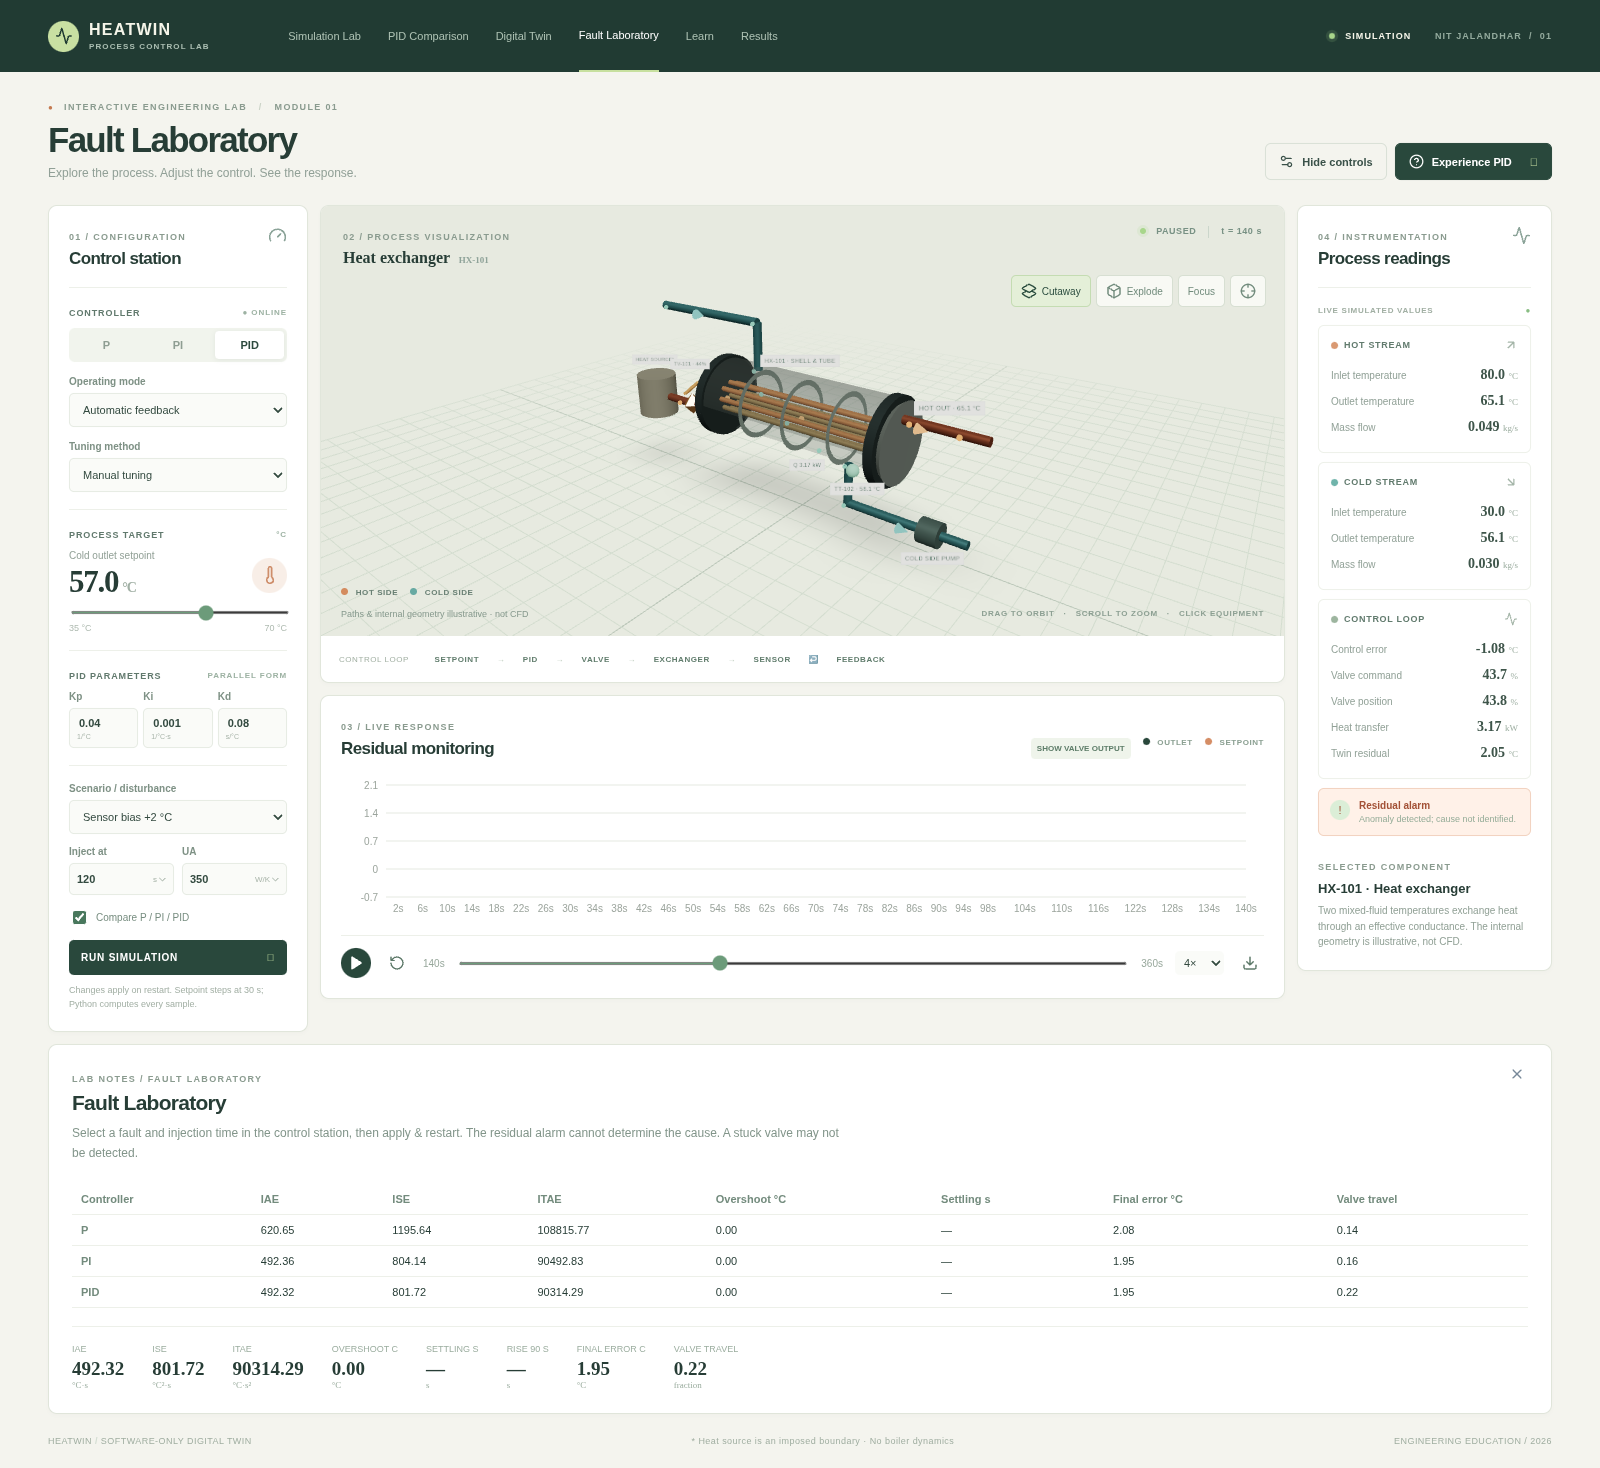
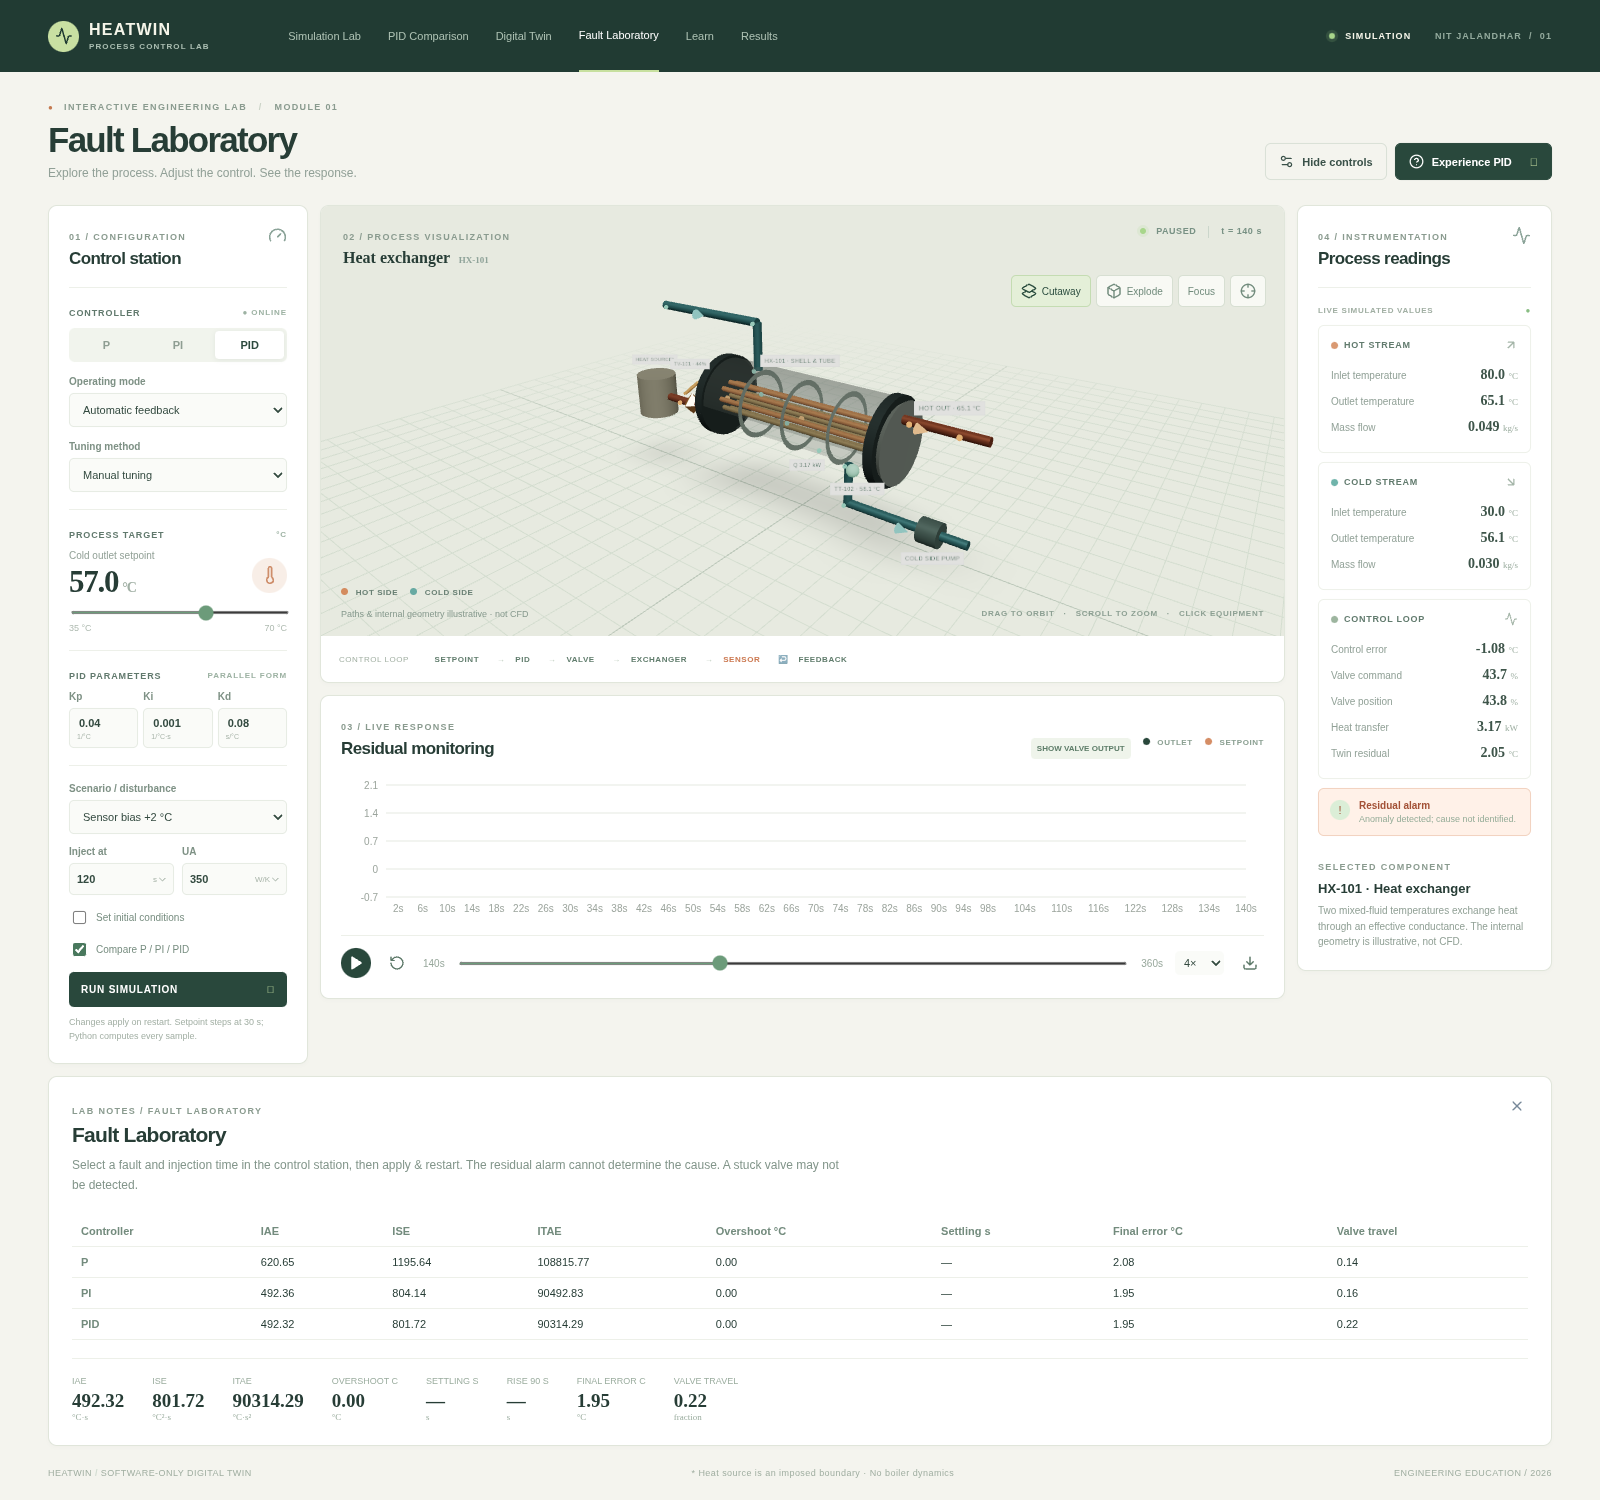
Add custom initial conditions and synchronized guidance

diff --git a/frontend/src/main.tsx b/frontend/src/main.tsx
@@ -478,6 +478,41 @@ function App() {
               <label className="check">
                 <input
                   type="checkbox"
+                  checked={config.initial_state !== null}
+                  onChange={(e) =>
+                    change(
+                      "initial_state",
+                      e.target.checked ? [55, 64, 0.4] : null,
+                    )
+                  }
+                />
+                Set initial conditions
+              </label>
+              {config.initial_state && (
+                <div className="gain-grid">
+                  {(
+                    ["Initial cold", "Initial hot", "Initial valve"] as const
+                  ).map((label, index) => (
+                    <NumberField
+                      key={label}
+                      label={label}
+                      unit={index === 2 ? "fraction" : "°C"}
+                      value={config.initial_state![index]}
+                      step={index === 2 ? 0.05 : 1}
+                      onChange={(value) => {
+                        const next: [number, number, number] = [
+                          ...config.initial_state!,
+                        ];
+                        next[index] = value;
+                        change("initial_state", next);
+                      }}
+                    />
+                  ))}
+                </div>
+              )}
+              <label className="check">
+                <input
+                  type="checkbox"
                   checked={config.compare}
                   onChange={(e) => change("compare", e.target.checked)}
                 />{" "}
@@ -596,17 +631,26 @@ function App() {
               </div>
               <div className="loop-bar">
                 <span>CONTROL LOOP</span>
-                <b>SETPOINT</b>
-                <i>→</i>
-                <b>PID</b>
-                <i>→</i>
-                <b>VALVE</b>
-                <i>→</i>
-                <b>EXCHANGER</b>
-                <i>→</i>
-                <b>SENSOR</b>
-                <i>↩</i>
-                <b>FEEDBACK</b>
+                {[
+                  "SETPOINT",
+                  "PID",
+                  "VALVE",
+                  "EXCHANGER",
+                  "SENSOR",
+                  "FEEDBACK",
+                ].map((node, index) => (
+                  <span
+                    className={
+                      Math.floor(time / 2) % 6 === index
+                        ? "signal-active"
+                        : "signal-node"
+                    }
+                    key={node}
+                  >
+                    {index > 0 && <i>{index === 5 ? "↩" : "→"}</i>}
+                    {node}
+                  </span>
+                ))}
               </div>
             </div>
             <div className="chart-panel panel">

diff --git a/frontend/src/Scene.tsx b/frontend/src/Scene.tsx
@@ -1,4 +1,4 @@
-import { Canvas, useThree } from "@react-three/fiber";
+import { Canvas, useFrame, useThree } from "@react-three/fiber";
 import {
   ContactShadows,
   OrbitControls,
@@ -91,6 +91,10 @@ function CameraActions({
 }) {
   const { camera, controls } = useThree();
   const mounted = useRef(false);
+  const destination = useRef<{
+    position: THREE.Vector3;
+    target: THREE.Vector3;
+  } | null>(null);
   useEffect(() => {
     if (!mounted.current) {
       mounted.current = true;
@@ -104,27 +108,36 @@ function CameraActions({
       sensor: [1.1, -0.65, 0],
     };
     const target = new THREE.Vector3(...positions[selected]);
-    camera.position.copy(target.clone().add(new THREE.Vector3(3, 2, 4)));
-    const orbit = controls as unknown as {
-      target: THREE.Vector3;
-      update: () => void;
-    } | null;
-    if (orbit) {
-      orbit.target.copy(target);
-      orbit.update();
-    }
+    destination.current = {
+      target,
+      position: target.clone().add(new THREE.Vector3(3, 2, 4)),
+    };
   }, [focusKey]);
   useEffect(() => {
-    camera.position.set(6, 4.3, 8);
+    destination.current = {
+      target: new THREE.Vector3(0, 0.1, 0),
+      position: new THREE.Vector3(6, 4.3, 8),
+    };
+  }, [resetKey]);
+  useFrame((_, delta) => {
+    const goal = destination.current;
+    if (!goal) return;
+    const alpha = 1 - Math.exp(-5 * delta);
+    camera.position.lerp(goal.position, alpha);
     const orbit = controls as unknown as {
       target: THREE.Vector3;
       update: () => void;
     } | null;
     if (orbit) {
-      orbit.target.set(0, 0.1, 0);
+      orbit.target.lerp(goal.target, alpha);
       orbit.update();
     }
-  }, [resetKey]);
+    if (
+      camera.position.distanceTo(goal.position) < 0.01 &&
+      (!orbit || orbit.target.distanceTo(goal.target) < 0.01)
+    )
+      destination.current = null;
+  });
   return null;
 }
 function Exchanger({

diff --git a/frontend/tests/lab.spec.ts b/frontend/tests/lab.spec.ts
@@ -84,6 +84,20 @@ test("new setpoint uses authoritative valve dynamics and reset freezes playback"
   await page.getByTitle("Focus selected equipment").click();
   await page.getByTitle("Reset camera").click();
   await page.getByRole("button", { name: "SHOW VALVE OUTPUT" }).click();
+  await page.getByLabel("Set initial conditions").check();
+  await page.getByLabel("Initial cold").fill("45");
+  await page.getByLabel("Initial hot").fill("70");
+  await page.getByLabel("Initial valve").fill("0.5");
+  const customResponse = page.waitForResponse(
+    (r) => r.url().includes("/api/run") && r.request().method() === "POST",
+  );
+  await page.getByRole("button", { name: "APPLY & RESTART" }).click();
+  const custom = await (await customResponse).json();
+  expect([
+    custom.runs.PID.samples[0].tc,
+    custom.runs.PID.samples[0].th,
+    custom.runs.PID.samples[0].valve,
+  ]).toEqual([45, 70, 0.5]);
 });
 
 test("mobile layout keeps scene and controls reachable", async ({ page }) => {

diff --git a/frontend/src/types.ts b/frontend/src/types.ts
@@ -43,6 +43,7 @@ export type Config = {
   fault: string;
   fault_time: number;
   seed: number;
+  initial_state: [number, number, number] | null;
 };
 export const defaults: Config = {
   duration: 360,
@@ -59,6 +60,7 @@ export const defaults: Config = {
   fault: "none",
   fault_time: 120,
   seed: 42,
+  initial_state: null,
 };
 export function indexAt(time: number, length: number) {
   return Math.min(Math.max(Math.floor(time), 0), Math.max(length - 1, 0));

diff --git a/frontend/src/style.css b/frontend/src/style.css
@@ -1028,3 +1028,18 @@ footer b {
     font-size: 12px;
   }
 }
+
+.loop-bar .signal-node,
+.loop-bar .signal-active {
+  margin: 0;
+  color: #617d6d;
+  font-weight: 700;
+  transition: color 0.15s;
+}
+.loop-bar .signal-active {
+  color: #cc7951;
+}
+.loop-bar .signal-node i,
+.loop-bar .signal-active i {
+  margin-right: 10px;
+}

diff --git a/heatwin/core.py b/heatwin/core.py
@@ -159,6 +159,7 @@ def simulate(
     flow_factor=1.0,
     sensor_drift=0.0,
     noise_at_fault=False,
+    initial_state=None,
 ):
     values = [
         duration,
@@ -185,11 +186,20 @@ def simulate(
     ):
         raise ValueError("invalid simulation settings")
     rng = np.random.default_rng(seed)
-    y = equilibrium(0.4, p)
+    y = (
+        equilibrium(0.4, p)
+        if initial_state is None
+        else np.asarray(initial_state, dtype=float).copy()
+    )
+    if y.shape != (3,) or not np.all(np.isfinite(y)) or not 0 <= y[2] <= 1:
+        raise ValueError(
+            "initial state requires two finite temperatures and a valve position in [0, 1]"
+        )
     initial = y[0]
-    controller = PID(*gains, dt=dt, bias=0.4)
+    initial_valve = float(y[2])
+    controller = PID(*gains, dt=dt, bias=initial_valve)
     rows = []
-    command = 0.4
+    command = initial_valve
     for t in np.arange(0, duration + dt / 2, dt):
         active = t >= fault_time
         sp = setpoint if t >= step_time else initial
@@ -199,7 +209,7 @@ def simulate(
             + rng.normal(0, noise if active or not noise_at_fault else 0.0)
         )
         command = (
-            (open_loop_value if t >= step_time else 0.4)
+            (open_loop_value if t >= step_time else initial_valve)
             if open_loop
             else controller.update(sp, measured)
         )

diff --git a/heatwin/api.py b/heatwin/api.py
@@ -10,7 +10,7 @@ from typing import Literal
 import numpy as np
 from fastapi import FastAPI
 from fastapi.middleware.cors import CORSMiddleware
-from pydantic import BaseModel, Field
+from pydantic import BaseModel, Field, field_validator
 
 from heatwin.core import Parameters, fit_fopdt, metrics, simulate
 from heatwin.diagnostics import predict_twin, residual_alarm
@@ -49,6 +49,18 @@ class Request(BaseModel):
     ] = "none"
     fault_time: int = Field(default=120, ge=0, le=1200)
     seed: int = 42
+    initial_state: tuple[float, float, float] | None = None
+
+    @field_validator("initial_state")
+    @classmethod
+    def valid_initial_state(cls, value):
+        if value is not None and (
+            not np.all(np.isfinite(value)) or not 0 <= value[2] <= 1
+        ):
+            raise ValueError(
+                "initial state requires finite temperatures and a valve fraction in [0, 1]"
+            )
+        return value
 
 
 @lru_cache(maxsize=1)
@@ -113,6 +125,7 @@ def run(request: Request):
             open_loop=request.mode == "manual",
             open_loop_value=request.manual_valve,
             noise_at_fault=True,
+            initial_state=request.initial_state,
             **options,
         )
         data["twin"] = predict_twin(data.time, data.command, data.tc.iloc[0], *model)

diff --git a/tests/test_api.py b/tests/test_api.py
@@ -39,3 +39,14 @@ def test_noise_is_injected_only_after_configured_time():
     ).json()["runs"]["PID"]["samples"]
     assert samples[49]["measurement"] == samples[49]["tc"]
     assert samples[50]["measurement"] != samples[50]["tc"]
+
+
+def test_configurable_initial_state_is_used_and_validated():
+    body = client.post(
+        "/api/run", json={"duration": 90, "initial_state": [45, 70, 0.5]}
+    ).json()
+    initial = body["runs"]["PID"]["samples"][0]
+    assert [initial["tc"], initial["th"], initial["valve"]] == [45, 70, 0.5]
+    assert (
+        client.post("/api/run", json={"initial_state": [45, 70, 2]}).status_code == 422
+    )

diff --git a/README.md b/README.md
@@ -30,7 +30,7 @@ Open the local address printed by Vite (normally `http://localhost:5173`). The f
 
 1. Drag to orbit, scroll to zoom, and pan using the mouse. Toggle **Cutaway** to expose the tube bundle, **Explode** to move the end caps, or reset the camera. Select equipment and use **Focus** to inspect it.
 2. Press play. The timeline, readings, process view and chart follow the same recorded simulation time. Pause, reset or seek; playback speed changes simulated seconds per wall-clock second.
-3. Select a controller, change gains or a setpoint, and choose **Apply & restart**. The setpoint change occurs at 30 simulated seconds. Configuration changes intentionally restart the run instead of changing a running numerical state. Manual mode uses a specified valve command rather than feedback control.
+3. Select a controller, change gains, a setpoint or initial conditions, and choose **Apply & restart**. The setpoint change occurs at 30 simulated seconds. Configuration changes intentionally restart the run instead of changing a running numerical state. Manual mode uses a specified valve command rather than feedback control.
 4. Enable P/PI/PID comparison and rerun for matched initial conditions and disturbances. Switch the 3D trajectory or inspect the comparison table. Switch the chart to valve output to see command and actual actuator position.
 5. Choose a disturbance or fault and an injection time, then rerun. The residual alarm is an anomaly indication, not fault classification. Open **Digital Twin** or **Learn** for interpretation and guided steps. Export the current trajectory as CSV.
 
@@ -80,4 +80,4 @@ Screenshots captured from the running application: [cutaway](docs/screenshots/cu
 
 ## Limitations
 
-This is a local educational prototype, not an industrial digital twin or safety system. There are no real measurements, pump or boiler dynamics, spatial temperature fields, or CFD. The residual cannot distinguish faults from model mismatch, and the included stuck-valve case demonstrates a missed detection. Finite-horizon simulations and local linearization do not prove robust global stability. Simulation starts at a calculated equilibrium; custom initial states and live parameter changes without restarting are not yet supported. The tutorial provides guided instructions rather than enforcing each activity, and twin comparison uses a shared scene and overlaid traces rather than two independent 3D views. Camera focus jumps to its target rather than animating a guided transition. Large Three.js/chart bundles may affect startup on slower networks. See [completion checklist](COMPLETION_CHECKLIST.md) for verified and remaining items.
+This is a local educational prototype, not an industrial digital twin or safety system. There are no real measurements, pump or boiler dynamics, spatial temperature fields, or CFD. The residual cannot distinguish faults from model mismatch, and the included stuck-valve case demonstrates a missed detection. Finite-horizon simulations and local linearization do not prove robust global stability. Simulation starts at a calculated equilibrium unless custom initial temperatures and valve position are supplied; live parameter changes without restarting are not yet supported. The tutorial provides guided instructions rather than enforcing each activity, and twin comparison uses a shared scene and overlaid traces rather than two independent 3D views. Camera focus and reset use a short interpolation; the tutorial does not automatically move the camera. Large Three.js/chart bundles may affect startup on slower networks. See [completion checklist](COMPLETION_CHECKLIST.md) for verified and remaining items.

diff --git a/COMPLETION_CHECKLIST.md b/COMPLETION_CHECKLIST.md
@@ -8,9 +8,9 @@ The laboratory is a simulated educational prototype. Items marked incomplete are
 - [x] Orbit, zoom, pan, camera reset/focus, cutaway and exploded end caps; animated illustrative particles and sensors follow the replay time and Python samples.
 - [x] Configuration, manual/automatic replay, setpoint, gains, comparison, fault selection, timeline, pause, reset, playback speed and CSV export.
 - [x] Comparison metrics, twin/residual charts, alarm indication and nine explanatory guided steps.
-- [ ] Live edits to an already-running solver without a restart; custom initial conditions; two simultaneous 3D twin views; animated signal overlay and smooth guided camera transitions.
+- [ ] Live edits to an already-running solver without a restart; two simultaneous 3D twin views; automatic guided camera choreography. The loop highlight follows the replay clock and focus/reset interpolate the camera.
 - [ ] Full scientific or industrial validation: no physical data, no CFD, no boiler/pump dynamics; the included stuck valve can evade the residual alarm.
-- [x] A clean source snapshot installed both locked dependency sets and passed 34 Python tests, two frontend unit tests, lint/format, production build, three browser tests and both experiment scripts; numerical summaries matched.
+- [x] A clean source snapshot installed both locked dependency sets and passed 34 Python tests, two frontend unit tests, lint/format, production build, three browser tests and both experiment scripts; numerical summaries matched. The subsequently added custom-initial-state case brings the local Python suite to 35 tests.
 - [ ] Verify the committed clean clone and remote SHA after delivery.
 
 Detailed mathematical assumptions and previous experiment results are in `docs/engineering.md` and `results/studies/summary.json`. The older `IMPLEMENTATION_PLAN.md` is a historical roadmap, not a completion record.

diff --git a/docs/engineering.md b/docs/engineering.md
@@ -15,7 +15,7 @@ Summing the energy balances cancels the internal heat transfer. Constant density
 
 The 0.4 to 0.5 command step beginning at 60 s supplies training data. The first-order and FOPDT models fit the normalized cold-outlet change by least squares. They are validated without refitting against a separate 0.4 to 0.3 step, with predictions and residuals saved in `results/studies/identification_validation.*`. The nominal process is nonlinear in hot flow, so gain depends on operating point; the estimated FOPDT delay represents unmodelled lag, not measured transport delay. A single noiseless simulated training step does not quantify parameter uncertainty.
 
-The twin superposes FOPDT responses to recorded command increments, initialized from the known initial cold temperature. It runs open loop with no hidden plant state or correction. It does not know inlet disturbances, UA changes or valve sticking. Consequently model mismatch, sensor faults and disturbances all affect residuals. The held-out closed-loop runs in `results/studies/case_*.csv` include independent perturbations; they are not used for fitting. Comparison to a simulator is not experimental validation.
+The twin superposes FOPDT responses to recorded command increments, initialized from the known initial cold temperature. Custom initial plant temperatures or valve positions need not be at equilibrium; the FOPDT model assumes a settled starting point, so its prediction may be poor for those starts. It runs open loop with no hidden plant state or correction. It does not know inlet disturbances, UA changes or valve sticking. Consequently model mismatch, sensor faults and disturbances all affect residuals. The held-out closed-loop runs in `results/studies/case_*.csv` include independent perturbations; they are not used for fitting. Comparison to a simulator is not experimental validation.
 
 ## Controller and tuning
 
